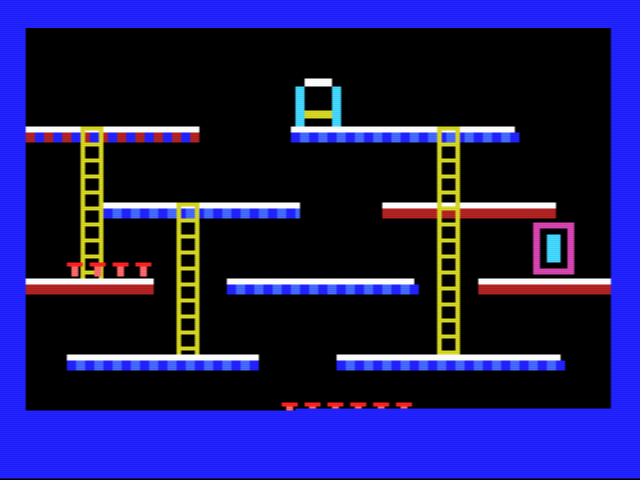
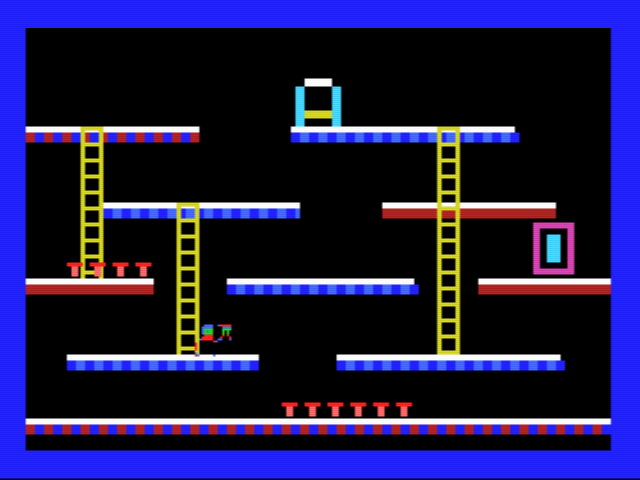
Fix MSX2 hardware sprite display

Changed region(s): [[0.0312, 0.8438, 0.9688, 0.9375], [0.3125, 0.6562, 0.375, 0.7188], [0.2812, 0.7188, 0.3125, 0.75]]

diff --git a/utils/msxGenerator/generators/msx2/msx2Screen5Generator.ts b/utils/msxGenerator/generators/msx2/msx2Screen5Generator.ts
@@ -365,15 +365,19 @@ function buildHardwareSpriteInitAsm(analysis: ProjectAnalysis): string {
   if (!sprite) return '';
   return `init_hardware_sprites:
     ; SCREEN 5 hardware sprite MVP. Clobbers AF/BC/DE/HL.
-    ; R#1 = #E2 selects 16x16 sprites and keeps display/IRQ bits compatible with BIOS use.
-    ld bc, #E201
-    call WRTVDP
-    ld a, #E2
+    ; Preserve the SCREEN 5 mode bits set by CHGMOD; only select 16x16, non-magnified sprites.
+    ld a, (#F3E0)
+    or #02
+    and #FE
     ld (#F3E0), a
+    ld b, a
+    ld c, #01
+    call WRTVDP
 
     ; Sprite attribute/color/pattern tables live above the SCREEN 5 bitmap.
-    ; R#5 selects SAT #7600. R#11 remains 0 because the table is below 64KB.
-    ld bc, #EC05
+    ; In sprite mode 2, R#5 selects the combined color+attribute table:
+    ; color table #7400, SAT #7600. Bits 0-2 must be 1.
+    ld bc, #EF05
     call WRTVDP
     ld bc, #000B
     call WRTVDP
@@ -383,17 +387,17 @@ function buildHardwareSpriteInitAsm(analysis: ProjectAnalysis): string {
     ld hl, msx2_hw_sprite_patterns
     ld de, ${SCREEN5_SPRPAT_VRAM}
     ld bc, msx2_hw_sprite_patterns_end - msx2_hw_sprite_patterns
-    call copy_to_vram_ext
+    call LDIRVM
 
     ld hl, msx2_hw_sprite_colors
     ld de, ${SCREEN5_SPRCOL_VRAM}
     ld bc, msx2_hw_sprite_colors_end - msx2_hw_sprite_colors
-    call copy_to_vram_ext
+    call LDIRVM
 
     ld hl, msx2_hw_sprite_attrs
     ld de, ${SCREEN5_SPRATR_VRAM}
     ld bc, 128
-    call copy_to_vram_ext
+    call LDIRVM
 
     xor a
     ld bc, #000E
